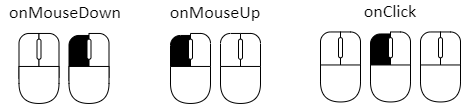
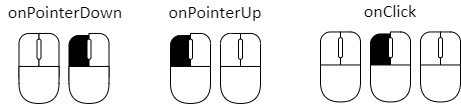
Added two more examples about screenPosition; fixed some images; fixed screenPosition local scaline

Changed region(s): [[0.0, 0.0577, 0.2733, 0.1731], [0.3644, 0.0577, 0.577, 0.2019]]

diff --git a/bin/suica.js b/bin/suica.js
@@ -1371,8 +1371,10 @@ type='on'+type;this[type.toLowerCase()]=listener;}
 removeEventListener(type,listener,aux)
 {if(listener)console.warn('Suica objects do not support second parameter of removeEventListener');if(aux)console.warn('Suica objects do not support third parameter of removeEventListener');if(!type.startsWith('on'))
 type='on'+type;this[type.toLowerCase()]=null;}
-screenPosition(relativeOffset=[0,0,0],absoluteOffset=[0,0,0])
-{relativeOffset=Suica.parseCenter(relativeOffset);absoluteOffset=Suica.parseCenter(absoluteOffset);this.threejs.updateWorldMatrix(true,true);var target=new THREE.Vector3(...relativeOffset),pos=this.threejs.localToWorld(target);pos.x+=absoluteOffset[0];pos.y+=absoluteOffset[1];pos.z+=absoluteOffset[2];pos.project(this.suica.camera);var x=(1+pos.x)/2*this.suica.canvas.clientWidth,y=(1-pos.y)/2*this.suica.canvas.clientHeight;return[Math.round(100*x)/100,Math.round(100*y)/100];}}
+screenPosition(localOffset=[0,0,0],globalOffset=[0,0,0])
+{localOffset=Suica.parseCenter(localOffset);globalOffset=Suica.parseCenter(globalOffset);switch(this.suica.orientation)
+{case Suica.ORIENTATIONS.YXZ:localOffset[0]/=this.threejs.scale.y;localOffset[1]/=this.threejs.scale.x;localOffset[2]/=this.threejs.scale.z;break;case Suica.ORIENTATIONS.ZYX:localOffset[0]/=this.threejs.scale.z;localOffset[1]/=this.threejs.scale.y;localOffset[2]/=this.threejs.scale.x;break;case Suica.ORIENTATIONS.XZY:localOffset[0]/=this.threejs.scale.x;localOffset[1]/=this.threejs.scale.z;localOffset[2]/=this.threejs.scale.y;break;case Suica.ORIENTATIONS.ZXY:localOffset[0]/=this.threejs.scale.z;localOffset[1]/=this.threejs.scale.x;localOffset[2]/=this.threejs.scale.y;break;case Suica.ORIENTATIONS.XYZ:localOffset[0]/=this.threejs.scale.x;localOffset[1]/=this.threejs.scale.y;localOffset[2]/=this.threejs.scale.z;break;case Suica.ORIENTATIONS.YZX:localOffset[0]/=this.threejs.scale.y;localOffset[1]/=this.threejs.scale.z;localOffset[2]/=this.threejs.scale.x;break;default:throw'error: unknown orientation';}
+this.threejs.updateWorldMatrix(true,true);var target=new THREE.Vector3(...localOffset),pos=this.threejs.localToWorld(target);pos.x+=globalOffset[0];pos.y+=globalOffset[1];pos.z+=globalOffset[2];pos.project(this.suica.camera);var x=(1+pos.x)/2*this.suica.canvas.clientWidth,y=(1-pos.y)/2*this.suica.canvas.clientHeight,z=pos.z;return[Math.round(100*x)/100,Math.round(100*y)/100,Math.round(1000*z)/1000];}}
 Mesh.createMaterials();
 class Point extends Mesh
 {static COLOR='black';static SIZE=7;static solidGeometry;constructor(suica,center,size,color)

diff --git a/examples/suica.js b/examples/suica.js
@@ -1371,8 +1371,10 @@ type='on'+type;this[type.toLowerCase()]=listener;}
 removeEventListener(type,listener,aux)
 {if(listener)console.warn('Suica objects do not support second parameter of removeEventListener');if(aux)console.warn('Suica objects do not support third parameter of removeEventListener');if(!type.startsWith('on'))
 type='on'+type;this[type.toLowerCase()]=null;}
-screenPosition(relativeOffset=[0,0,0],absoluteOffset=[0,0,0])
-{relativeOffset=Suica.parseCenter(relativeOffset);absoluteOffset=Suica.parseCenter(absoluteOffset);this.threejs.updateWorldMatrix(true,true);var target=new THREE.Vector3(...relativeOffset),pos=this.threejs.localToWorld(target);pos.x+=absoluteOffset[0];pos.y+=absoluteOffset[1];pos.z+=absoluteOffset[2];pos.project(this.suica.camera);var x=(1+pos.x)/2*this.suica.canvas.clientWidth,y=(1-pos.y)/2*this.suica.canvas.clientHeight;return[Math.round(100*x)/100,Math.round(100*y)/100];}}
+screenPosition(localOffset=[0,0,0],globalOffset=[0,0,0])
+{localOffset=Suica.parseCenter(localOffset);globalOffset=Suica.parseCenter(globalOffset);switch(this.suica.orientation)
+{case Suica.ORIENTATIONS.YXZ:localOffset[0]/=this.threejs.scale.y;localOffset[1]/=this.threejs.scale.x;localOffset[2]/=this.threejs.scale.z;break;case Suica.ORIENTATIONS.ZYX:localOffset[0]/=this.threejs.scale.z;localOffset[1]/=this.threejs.scale.y;localOffset[2]/=this.threejs.scale.x;break;case Suica.ORIENTATIONS.XZY:localOffset[0]/=this.threejs.scale.x;localOffset[1]/=this.threejs.scale.z;localOffset[2]/=this.threejs.scale.y;break;case Suica.ORIENTATIONS.ZXY:localOffset[0]/=this.threejs.scale.z;localOffset[1]/=this.threejs.scale.x;localOffset[2]/=this.threejs.scale.y;break;case Suica.ORIENTATIONS.XYZ:localOffset[0]/=this.threejs.scale.x;localOffset[1]/=this.threejs.scale.y;localOffset[2]/=this.threejs.scale.z;break;case Suica.ORIENTATIONS.YZX:localOffset[0]/=this.threejs.scale.y;localOffset[1]/=this.threejs.scale.z;localOffset[2]/=this.threejs.scale.x;break;default:throw'error: unknown orientation';}
+this.threejs.updateWorldMatrix(true,true);var target=new THREE.Vector3(...localOffset),pos=this.threejs.localToWorld(target);pos.x+=globalOffset[0];pos.y+=globalOffset[1];pos.z+=globalOffset[2];pos.project(this.suica.camera);var x=(1+pos.x)/2*this.suica.canvas.clientWidth,y=(1-pos.y)/2*this.suica.canvas.clientHeight,z=pos.z;return[Math.round(100*x)/100,Math.round(100*y)/100,Math.round(1000*z)/1000];}}
 Mesh.createMaterials();
 class Point extends Mesh
 {static COLOR='black';static SIZE=7;static solidGeometry;constructor(suica,center,size,color)

diff --git a/src/suica-mesh.js b/src/suica-mesh.js
@@ -576,29 +576,65 @@ class Mesh
 	}
 	
 
-	screenPosition( relativeOffset=[0,0,0], absoluteOffset=[0,0,0] )
+	screenPosition( localOffset=[0,0,0], globalOffset=[0,0,0] )
 	{
-		relativeOffset = Suica.parseCenter( relativeOffset );
-		absoluteOffset = Suica.parseCenter( absoluteOffset );
+		localOffset = Suica.parseCenter( localOffset );
+		globalOffset = Suica.parseCenter( globalOffset );
 
+		switch( this.suica.orientation )
+		{
+			case Suica.ORIENTATIONS.YXZ:
+					localOffset[0] /= this.threejs.scale.y;
+					localOffset[1] /= this.threejs.scale.x;
+					localOffset[2] /= this.threejs.scale.z;
+					break;
+			case Suica.ORIENTATIONS.ZYX:
+					localOffset[0] /= this.threejs.scale.z;
+					localOffset[1] /= this.threejs.scale.y;
+					localOffset[2] /= this.threejs.scale.x;
+					break;
+			case Suica.ORIENTATIONS.XZY:
+					localOffset[0] /= this.threejs.scale.x;
+					localOffset[1] /= this.threejs.scale.z;
+					localOffset[2] /= this.threejs.scale.y;
+					break;
+			case Suica.ORIENTATIONS.ZXY:
+					localOffset[0] /= this.threejs.scale.z;
+					localOffset[1] /= this.threejs.scale.x;
+					localOffset[2] /= this.threejs.scale.y;
+					break;
+			case Suica.ORIENTATIONS.XYZ:
+					localOffset[0] /= this.threejs.scale.x;
+					localOffset[1] /= this.threejs.scale.y;
+					localOffset[2] /= this.threejs.scale.z;
+					break;
+			case Suica.ORIENTATIONS.YZX:
+					localOffset[0] /= this.threejs.scale.y;
+					localOffset[1] /= this.threejs.scale.z;
+					localOffset[2] /= this.threejs.scale.x;
+					break;
+			default: throw 'error: unknown orientation';
+		}
+		
 		this.threejs.updateWorldMatrix( true, true );
 		
-		var target = new THREE.Vector3( ...relativeOffset ),
+		var target = new THREE.Vector3( ...localOffset ),
 			pos = this.threejs.localToWorld( target );
 			
-		pos.x += absoluteOffset[0];
-		pos.y += absoluteOffset[1];
-		pos.z += absoluteOffset[2];
+		pos.x += globalOffset[0];
+		pos.y += globalOffset[1];
+		pos.z += globalOffset[2];
 
 		// get pos in relative screen coordinates [-1,-1]x[1,1]
 		pos.project( this.suica.camera );
 
 		// scale to pixels
 		var x = (1+pos.x)/2 * this.suica.canvas.clientWidth,
-			y = (1-pos.y)/2 * this.suica.canvas.clientHeight;
+			y = (1-pos.y)/2 * this.suica.canvas.clientHeight,
+			z = pos.z;
 		
 		
-		return [ Math.round(100*x)/100, Math.round(100*y)/100 ];
+		return [ Math.round(100*x)/100, Math.round(100*y)/100, Math.round(1000*z)/1000 ];
 	}
 	
 

diff --git a/examples/screen-position-local-scale.html b/examples/screen-position-local-scale.html
@@ -2,7 +2,7 @@
 <html lang="en">
 
 <head>
-	<title>Screen position &ndash; global coordinates</title>
+	<title>Screen position &ndash; local scale</title>
 
 	<meta charset="utf-8">
 	<meta name="viewport" content="width=device-width, user-scalable=no, minimum-scale=1.0, maximum-scale=1.0">
@@ -31,27 +31,29 @@
 
 <body>
 
-	<h1>Screen position &ndash; global coordinates</h1>
-	<p>Getting the screen position from object local and global coordinates.</p>
+	<h1>Screen position &ndash; local scale</h1>
+	<p>Demonstrating that screen position ignores local object scale.</p>
 
 	<suica ontime="onTime">
 		<demo>
-		<pyramid id="p" count="4" width="40" height="40" y="-10">
+		<cube id="p" count="4" size="60,40,10">
 		<div id="a" class="label">A</div>
 		<div id="b" class="label">B</div>
 		<div id="c" class="label">C</div>
 		<div id="d" class="label">D</div>
 		<div id="e" class="label">E</div>
-		<div id="e1" class="label">E'</div>
-		<div id="e2" class="label">E"</div>
+		<div id="f" class="label">F</div>
+		<div id="g" class="label">G</div>
+		<div id="h" class="label">H</div>
 	</suica>
 
 	<script>
-		function setPos( label, offset, offsetY=[0,0,0] )
+		// function to center an element on given position
+		function setPos( label, offset )
 		{
 			var elem = element( label );
 			
-			var pos = p.screenPosition( offset, offsetY );
+			var pos = p.screenPosition( offset );
 			elem.style.left = (pos[0]-elem.clientWidth/2)+'px';
 			elem.style.top = (pos[1]-elem.clientHeight/2)+'px';
 		}
@@ -62,13 +64,15 @@
 			p.spinV = 90*Math.cos(0.7**t);
 			p.spinT = 180*Math.sin(0.2*t);
 			
-			setPos( 'a', [0.5,0,0] );
-			setPos( 'b', [0,0,0.5] );
-			setPos( 'c', [-0.5,0,0] );
-			setPos( 'd', [0,0,-0.5] );
-			setPos( 'e', [0,1,0] );
-			setPos( 'e1', [0,1,0], [0,7,0] );
-			setPos( 'e2', [0,1,0], [0,14,0] );
+			setPos( 'a', [30,-20,5] );
+			setPos( 'b', [30,-20,-5] );
+			setPos( 'c', [-30,-20,-5] );
+			setPos( 'd', [-30,-20,5] );
+
+			setPos( 'e', [30,20,5] );
+			setPos( 'f', [30,20,-5] );
+			setPos( 'g', [-30,20,-5] );
+			setPos( 'h', [-30,20,5] );
 		}
 	</script>
 </body>

diff --git a/examples/screen-position-html-scale.html b/examples/screen-position-html-scale.html
@@ -2,7 +2,7 @@
 <html lang="en">
 
 <head>
-	<title>Screen position &ndash; local coordinates</title>
+	<title>Screen position &ndash; element scale</title>
 
 	<meta charset="utf-8">
 	<meta name="viewport" content="width=device-width, user-scalable=no, minimum-scale=1.0, maximum-scale=1.0">
@@ -31,27 +31,30 @@
 
 <body>
 
-	<h1>Screen position &ndash; local coordinates</h1>
-	<p>Getting the screen position from object local coordinates.</p>
+	<h1>Screen position &ndash; element scale</h1>
+	<p>Scaling HTML elements based on distance from screen.</p>
 
 	<suica ontime="onTime">
 		<demo>
-		<pyramid id="p" count="4" width="40" height="40" y="-10">
+		<cube id="p" count="4" size="60,40,10">
 		<div id="a" class="label">A</div>
 		<div id="b" class="label">B</div>
 		<div id="c" class="label">C</div>
 		<div id="d" class="label">D</div>
 		<div id="e" class="label">E</div>
-		<div id="e1" class="label">E'</div>
-		<div id="e2" class="label">E"</div>
+		<div id="f" class="label">F</div>
+		<div id="g" class="label">G</div>
+		<div id="h" class="label">H</div>
 	</suica>
 
 	<script>
+		// function to resize and center an element on given position
 		function setPos( label, offset )
 		{
 			var elem = element( label );
 			
 			var pos = p.screenPosition( offset );
+			elem.style.fontSize = (1.5 - 100*(pos[2]-0.98) )+'em';
 			elem.style.left = (pos[0]-elem.clientWidth/2)+'px';
 			elem.style.top = (pos[1]-elem.clientHeight/2)+'px';
 		}
@@ -62,13 +65,15 @@
 			p.spinV = 90*Math.cos(0.7**t);
 			p.spinT = 180*Math.sin(0.2*t);
 			
-			setPos( 'a', [0.5,0,0] );
-			setPos( 'b', [0,0,0.5] );
-			setPos( 'c', [-0.5,0,0] );
-			setPos( 'd', [0,0,-0.5] );
-			setPos( 'e', [0,1,0] );
-			setPos( 'e1', [0,1.15,0] );
-			setPos( 'e2', [0,1.3,0] );
+			setPos( 'a', [30,-20,5] );
+			setPos( 'b', [30,-20,-5] );
+			setPos( 'c', [-30,-20,-5] );
+			setPos( 'd', [-30,-20,5] );
+
+			setPos( 'e', [30,20,5] );
+			setPos( 'f', [30,20,-5] );
+			setPos( 'g', [-30,20,-5] );
+			setPos( 'h', [-30,20,5] );
 		}
 	</script>
 </body>

diff --git a/examples/screen-position-global.html b/examples/screen-position-global.html
@@ -47,6 +47,7 @@
 	</suica>
 
 	<script>
+		// function to center an element on given position
 		function setPos( label, offset, offsetY=[0,0,0] )
 		{
 			var elem = element( label );
@@ -62,13 +63,13 @@
 			p.spinV = 90*Math.cos(0.7**t);
 			p.spinT = 180*Math.sin(0.2*t);
 			
-			setPos( 'a', [0.5,0,0] );
-			setPos( 'b', [0,0,0.5] );
-			setPos( 'c', [-0.5,0,0] );
-			setPos( 'd', [0,0,-0.5] );
-			setPos( 'e', [0,1,0] );
-			setPos( 'e1', [0,1,0], [0,7,0] );
-			setPos( 'e2', [0,1,0], [0,14,0] );
+			setPos( 'a', [20,0,0] );
+			setPos( 'b', [0,0,20] );
+			setPos( 'c', [-20,0,0] );
+			setPos( 'd', [0,0,-20] );
+			setPos( 'e', [0,40,0] );
+			setPos( 'e1', [0,40,0], [0,7,0] );
+			setPos( 'e2', [0,40,0], [0,14,0] );
 		}
 	</script>
 </body>

diff --git a/examples/screen-position-local.html b/examples/screen-position-local.html
@@ -47,6 +47,7 @@
 	</suica>
 
 	<script>
+		// function to center an element on given position
 		function setPos( label, offset )
 		{
 			var elem = element( label );
@@ -62,13 +63,13 @@
 			p.spinV = 90*Math.cos(0.7**t);
 			p.spinT = 180*Math.sin(0.2*t);
 			
-			setPos( 'a', [0.5,0,0] );
-			setPos( 'b', [0,0,0.5] );
-			setPos( 'c', [-0.5,0,0] );
-			setPos( 'd', [0,0,-0.5] );
-			setPos( 'e', [0,1,0] );
-			setPos( 'e1', [0,1.15,0] );
-			setPos( 'e2', [0,1.3,0] );
+			setPos( 'a', [20,0,0] );
+			setPos( 'b', [0,0,20] );
+			setPos( 'c', [-20,0,0] );
+			setPos( 'd', [0,0,-20] );
+			setPos( 'e', [0,40,0] );
+			setPos( 'e1', [0,47,0] );
+			setPos( 'e2', [0,54,0] );
 		}
 	</script>
 </body>

diff --git a/docs/properties.md b/docs/properties.md
@@ -12,7 +12,7 @@ By design Suica attempts to use the same properties for all objects as much as i
 	- <small>[Setting properties](#setting-properties): [`its`](#its)</small>
 	- <small>[Multiple properties](#multiple-properties): [`style`](#style)</small>
 - [Geometrical properties](#geometrical-properties)
-	- <small>[Position](#position): [`center`](#center), [`x`](#x-y-z), [`y`](#x-y-z), [`z`](#x-y-z)</small>
+	- <small>[Position](#position): [`center`](#center), [`x`](#x-y-z), [`y`](#x-y-z), [`z`](#x-y-z), [`screenPosition`](#screenposition)</small>
 	- <small>[Size](#size): [`size`](#size-1), [`width`](#width-height-depth), [`height`](#width-height-depth), [`depth`](#width-height-depth)</small>
 	- <small>[Orientation](#orientation): [`spin`](#spin), [`spinH`](#spinh-spinv-spint), [`spinV`](#spinh-spinv-spint), [`spinT`](#spinh-spinv-spint)</small>
 - [Material properties](#material-properties)
@@ -180,6 +180,22 @@ p.x = 25;
 p.y = 10;
 p.z = 15;
 ```
+
+#### screenPosition
+```js
+JS:
+𝑝𝑜𝑠 = 𝑜𝑏𝑗𝑒𝑐𝑡𝘕𝘢𝘮𝘦.screenPosition( 𝑙𝑜𝑐𝑎𝑙𝑂𝑓𝑓𝑠𝑒𝑡, 𝑔𝑙𝑜𝑏𝑎𝑙𝑂𝑓𝑓𝑠𝑒𝑡 );
+```
+Function. Calculates screen coordinates. This function takes a 3D point in Suica 3D space and calculates its 2D screen coordinates relative to the Suica drawing canvas. This can be used to position HTML elements where the graphical objects are.
+
+The result of the method is an array of [`x`,`y`] coordinates of a pixel relative to the top-left corner of the Suica canvas. This pixel is exactly where the 3D coordinates of the object `center` are.
+
+[<kbd><img src="../examples/snapshots/screen-position.jpg" width="300"></kbd>](../examples/screen-position.html)
+
+The 3D coordinates can be modified prior to calculation of screen coordinates. This modification is set by the optional parameters `localOffset` and `globalOffset`. If `localOffset` is provided, it is added to the 3D coordinates. The local offset uses the orientation and the size of the object. If `globalOffset` is provided, it is added to the 3D coordinates. The global offset uses the Suica coordinate system and is not dependent on object's orientation and size.
+ 
+[<kbd><img src="../examples/snapshots/screen-position-local.jpg" width="300"></kbd>](../examples/screen-position-local.html)
+[<kbd><img src="../examples/snapshots/screen-position-global.jpg" width="300"></kbd>](../examples/screen-position-global.html)
 
 
 
